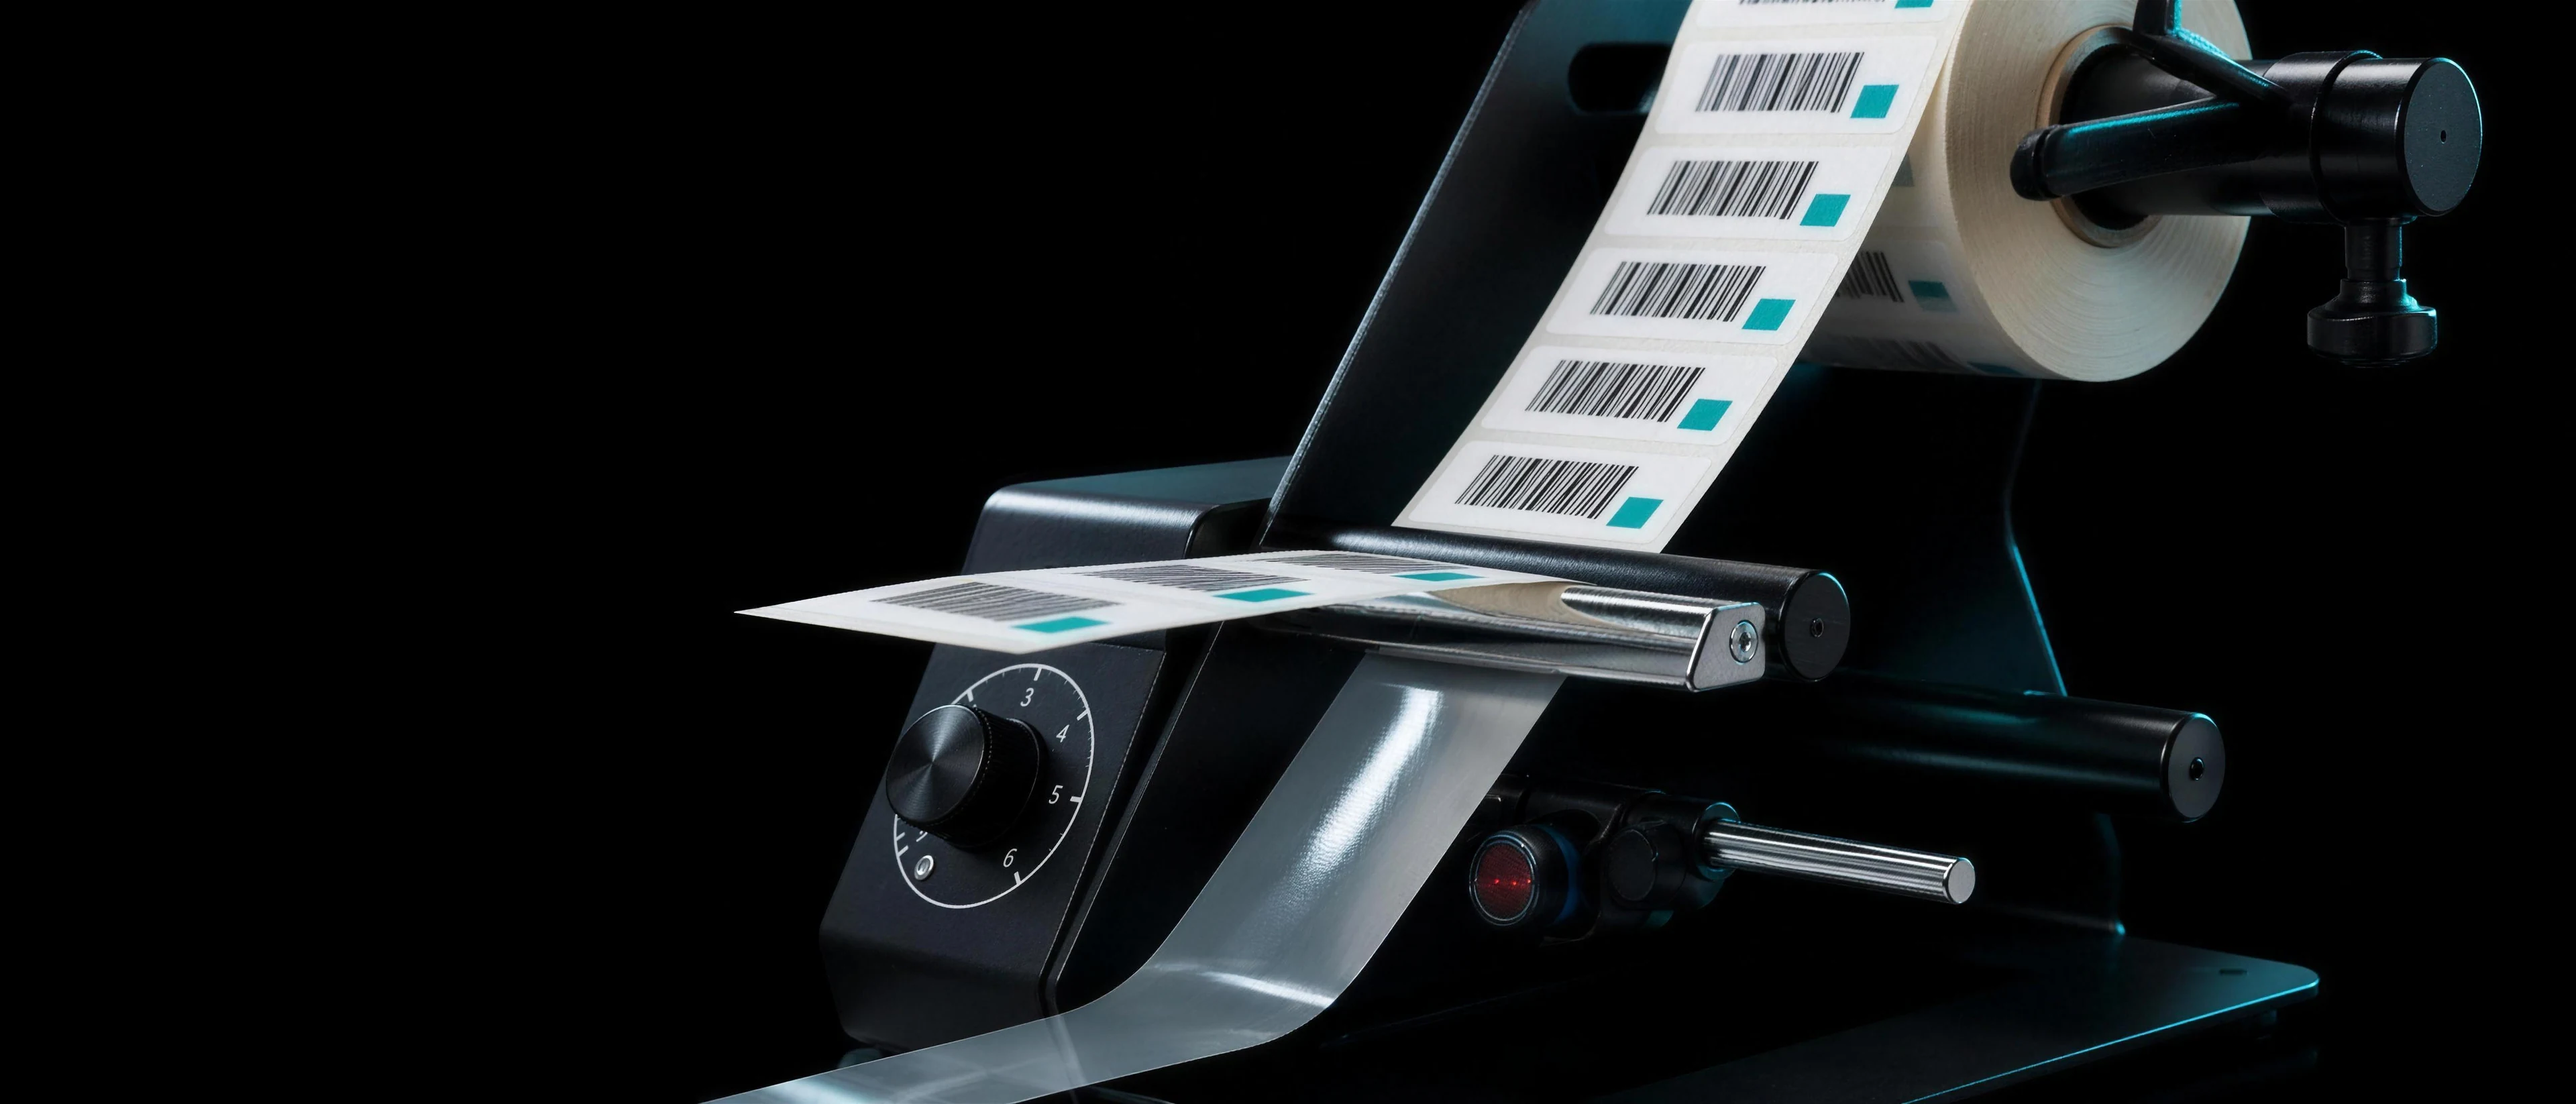
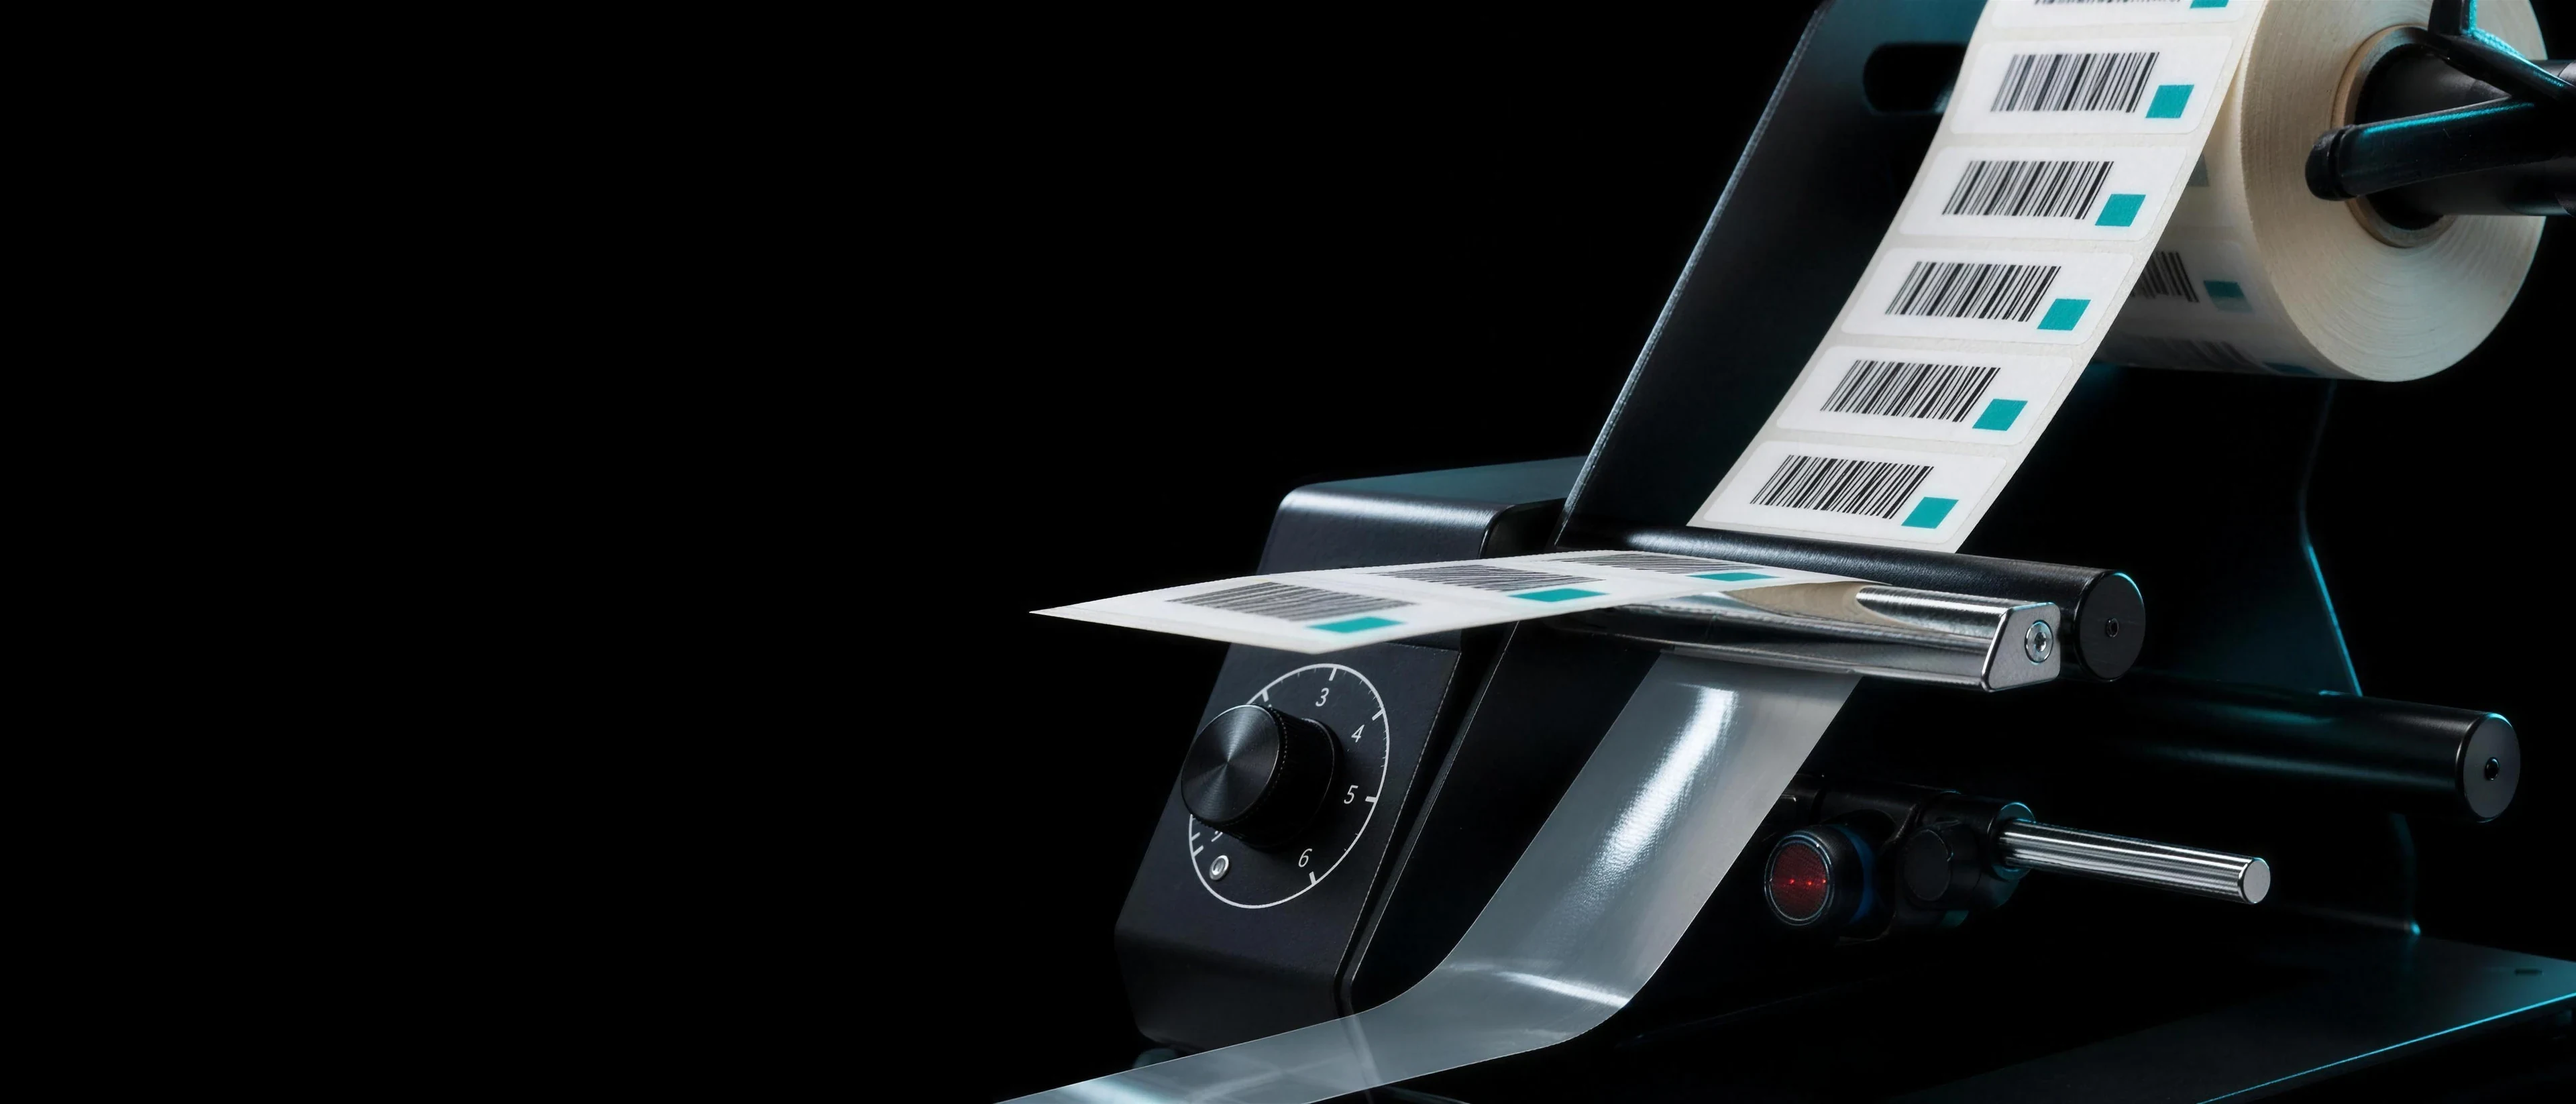
Hero dyspenserów przesunięty w prawo
Etykieta odchodząca od krawędzi wchodziła pod akapit leadu. Treść
zajmowała 32-87 % szerokości, więc przy prawej krawędzi leżało 13 %
nieużywanej czerni; przesunięcie o 440 px daje zakres 43,5-98,6 %.
Tekst leży na czystym tle, nic nie wypadło poza kadr.

Przesunięcie musi iść w plik, nie w object-position: obraz ma proporcje
2,33, kontener 3,83, więc object-cover przycina wyłącznie w pionie.

Claude-Session: https://claude.ai/code/session_01LzgP5oWkdc5FWhyzRXypir

diff --git a/PROGRESS.md b/PROGRESS.md
@@ -1067,3 +1067,5 @@ Otwarte na kolejne sesje:
 - Wpis w `heroImages` w `SubcategoryPage`: `alt` opisuje scenę, `lead` zastępuje długi opis nad kafelkami. Sprawdzone obok siebie: obie kategorie mają tę samą budowę nagłówka (392 i 376 px, różnica z łamania H1).
 - **Pierwsza wersja hero odrzucona** (user: „nie przypomina to odklejania etykiety, bo całość idzie górą a pod spodem nie wiadomo co to"). Brakowało tego, co stanowi istotę dyspensera: ostrego załamania na krawędzi odklejającej. Wstęga przewieszała się przez wałek jednym łukiem, a biały pasek pod spodem mógł być czymkolwiek. Nowy prompt opisuje mechanikę krok po kroku: rolka na trzonie, wstęga z widocznymi etykietami schodzi do chromowanej krawędzi, tam łamie się pod ostrym kątem, gotowa etykieta idzie płasko w lewo, a podłoże zawraca w dół — puste, błyszczące i półprzezroczyste, żeby od razu było widać, że to odpad, a nie materiał.
 - Wybór wariantu robiony na symulowanym wycinku: obraz przeskalowany do 1440 px, przycięty do 376 px wysokości hero i przykryty gradientem z klas Tailwinda (pełna czerń do 20 %, 0,70 na 35 %, zero na 55 %). Dopiero to pokazuje, co klient naprawdę widzi — w pełnym kadrze wszystkie trzy wyglądały dobrze, w wycinku dwa miały uciętą rolkę u góry.
+- **Hero dyspenserów przesunięty w prawo** (user). Etykieta odchodząca od krawędzi wchodziła pod akapit leadu. Pomiar jasności kolumn pokazał, że treść zajmuje 32,1–87,2 % szerokości, czyli przy prawej krawędzi leżało 13 % nieużywanej czerni. Przesunięcie o 440 px (11,5 %) daje zakres 43,5–98,6 % — tekst na czystym tle, nic nie wypadło poza kadr, zostało 51 px zapasu. Doklejony pas wziął kolor z lewej krawędzi oryginału (czysta czerń), więc szwu nie widać.
+- Uwaga do `object-position`: przy tym hero nie da się przesunąć kadru poziomo klasą. Obraz ma proporcje 2,33, a kontener 3,83, więc przy `object-cover` skaluje się do pełnej szerokości i przycina wyłącznie w pionie — poziomo widać całość. Przesunięcie musi iść w sam plik.
